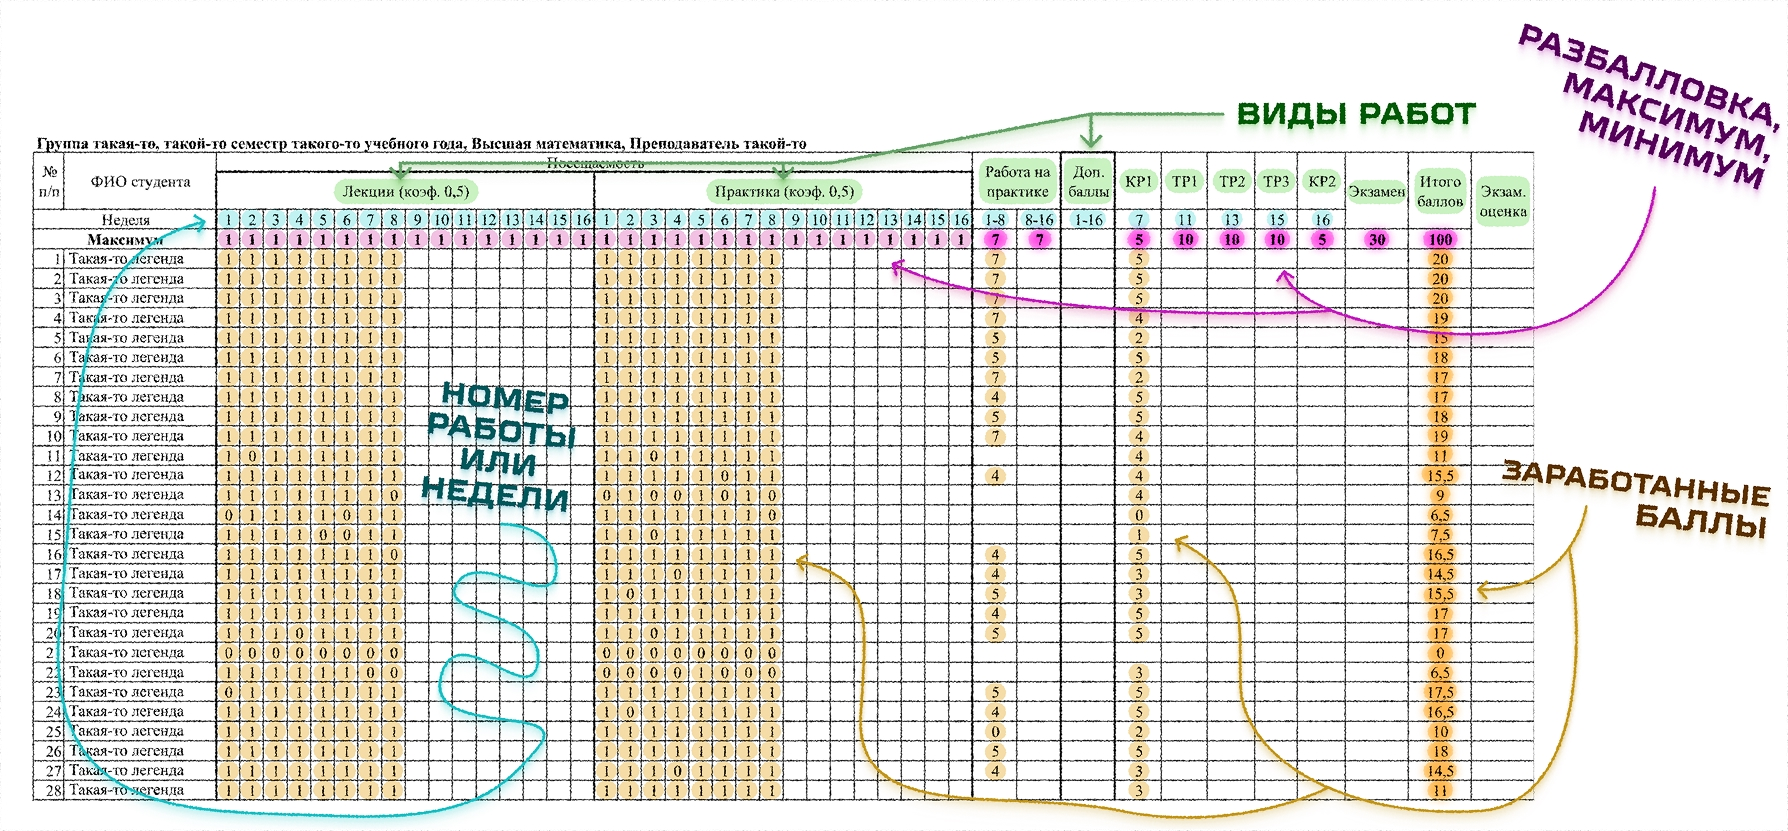
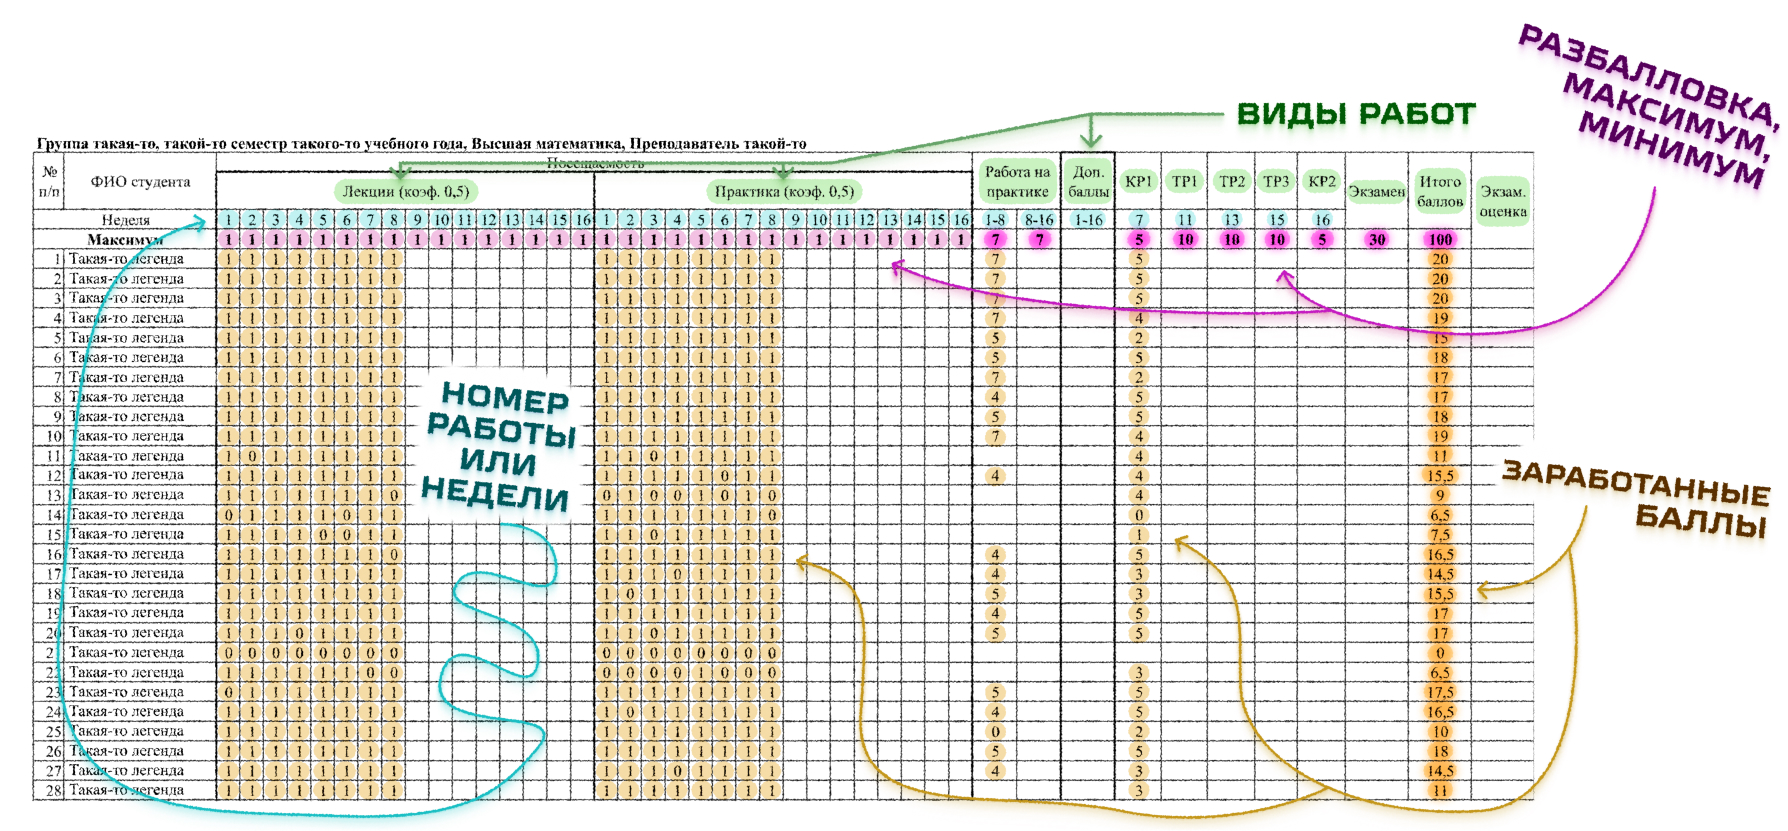
Added more options to FAQ

diff --git a/faq.py b/faq.py
@@ -9,6 +9,9 @@ from keyboards import (
     get_faq_expelled_keyboard,
     get_faq_menu,
     get_faq_survive_keyboard,
+    get_faq_slang_keyboard,
+    get_faq_prog_slang_keyboard,
+    get_faq_friends_keyboard,
 )
 from utils import delete_previous_bot_message, safe_answer
 
@@ -66,7 +69,7 @@ FAQ_TEXTS = {
 <tg-emoji emoji-id='5210956306952758910'>👀</tg-emoji> <i>На скриншоте выше вы можете увидеть, как <b>выглядят списки</b> и <b>как с ними нужно работать</b>...</i>"
 """,
 
-    # Перевод на бюджет
+    # Перевод на другое направление
     "faq_transfer": """<tg-emoji emoji-id='5323772371830588991'>🫡</tg-emoji> <b>Смена направления</b>
 
 <i>Пока не готово, так как нужно поинтересоваться у деканата...</i>
@@ -109,8 +112,55 @@ FAQ_TEXTS = {
 <tg-emoji emoji-id='5422535853471709738'>‼</tg-emoji> <b>Чилл (<i>to chill</i>)</b> — расслабленное состояние, отдых
 <tg-emoji emoji-id='5273804541920299303'>‼</tg-emoji> <b>Жиза (<i>relatable</i>)</b> — жизненная, узнаваемая ситуация
 """,
-    "faq_academic": "Не доделал...",
-    "faq_friends": "Не доделал...",
+    
+    # Программистский сленг
+    "faq_prog_slang": """<tg-emoji emoji-id='5231018528689108942'>🖥</tg-emoji> <b>Сленг для программистов</b>
+
+<tg-emoji emoji-id='5276017910366610357'>‼</tg-emoji> <b>Баг, фиксить, дебажить (<i>bug, fix, debug</i>)</b> — ошибка в программе, исправлять и искать её
+<tg-emoji emoji-id='5276245341769836476'>‼</tg-emoji> <b>Фича (<i>feature</i>)</b> — функция продукта
+<tg-emoji emoji-id='5274194048209398109'>‼</tg-emoji> <b>Таск (<i>task</i>)</b> — задача в трекере
+<tg-emoji emoji-id='5274260822065948801'>‼</tg-emoji> <b>Дедлайн (<i>deadline</i>)</b> — срок сдачи
+<tg-emoji emoji-id='5275985324449736372'>‼</tg-emoji> <b>Релиз, хотфикс (<i>release, hotfix</i>)</b> — выпуск версии, срочное исправление критического бага
+<tg-emoji emoji-id='5274182881294429839'>‼</tg-emoji> <b>Кранч (<i>crunch</i>)</b> — аврал, большой объём работы в сжатые сроки
+<tg-emoji emoji-id='5276104617166383228'>‼</tg-emoji> <b>Техдолг (<i>technical debt</i>)</b> — последствия быстрых временных решений, которые потом усложняют жизнь
+<tg-emoji emoji-id='5274249418927778366'>‼</tg-emoji> <b>Легаси (<i>legacy code</i>)</b> — старый код, который никто не понимает, но все боятся трогать
+<tg-emoji emoji-id='5273831677523666619'>‼</tg-emoji> <b>Коммит, репа, ПР (<i>commit, repo, PR</i>)</b> — зафиксировать изменения, хранилище кода, пулл−реквест на проверку
+<tg-emoji emoji-id='5276225391646746856'>‼</tg-emoji> <b>Деплой, задеплоить (<i>deploy</i>)</b> — выложить новую версию на сервер
+<tg-emoji emoji-id='5276362508477670577'>‼</tg-emoji> <b>Продакшн (<i>prod, production</i>)</b> — рабочая среда, то, что видят реальные пользователи
+<tg-emoji emoji-id='5274095401400543889'>‼</tg-emoji> <b>Бэкап (<i>backup</i>)</b> — резервная копия
+<tg-emoji emoji-id='5275997792739796367'>‼</tg-emoji> <b>Джун, мидл, сеньор (<i>junior, middle, senior</i>)</b> — уровни опыта
+<tg-emoji emoji-id='5275968333559113658'>‼</tg-emoji> <b>Фронт, бэк, фулстек (<i>frontend, backend, fullstack</i>)</b> — видимая часть, серверная часть и универсал
+<tg-emoji emoji-id='5273944557854140615'>‼</tg-emoji> <b>Вайб−кодинг (<i>vibe coding</i>)</b> — быстрое программирование «по вайбу», часто с опорой на нейросети
+<tg-emoji emoji-id='5276516203882359646'>‼</tg-emoji> <b>Кланкер (<i>clanker</i>)</b> — уничижительное название для ИИ, робота или «бездушного» автоматизированного решения
+<tg-emoji emoji-id='5274085806443604103'>‼</tg-emoji> <b>Таскмаскинг (<i>taskmasking</i>)</b> — имитация бурной деятельности: человек выглядит занятым, но реально ничего полезного не делает
+<tg-emoji emoji-id='5276129669710619845'>‼</tg-emoji> <b>Аура−фарминг (<i>aura farming</i>)</b> — создание продуманного «естественно крутого» образа без явной демонстрации усилий
+<tg-emoji emoji-id='5276271425106225527'>‼</tg-emoji> <b>Эйджентик−инжиниринг (<i>agentic engineering</i>)</b> — управление ИИ−агентами, которые сами планируют и выполняют задачи; «взрослая» альтернатива вайб−кодингу
+<tg-emoji emoji-id='5273862751612052806'>‼</tg-emoji> <b>Слоп (<i>slop</i>)</b> — низкокачественный код или контент, сгенерированный ИИ без должной проверки
+<tg-emoji emoji-id='5273923022888119233'>‼</tg-emoji> <b>Галлюцинация (<i>hallucination</i>)</b> — уверенный, но неверный ответ нейросети
+<tg-emoji emoji-id='5276244843553630595'>‼</tg-emoji> <b>Промпт−инжиниринг (<i>prompt engineering</i>)</b> — составление запросов к нейросети так, чтобы получить нужный результат
+""",
+
+    # Академический отпуск
+    "faq_academic": """<tg-emoji emoji-id='5265002646397285605'>🏫</tg-emoji> <b>Академический отпуск</b>
+
+<i>Пока не готово, так как нужно поинтересоваться у деканата...</i>
+""",
+
+    # Как найти друзей
+    "faq_friends": """<tg-emoji emoji-id='5443038326535759644'>💬</tg-emoji> <b>Как найти друзей?</b>
+
+Психология банальна, но работает: людям становится близок тот, с кем они <b>часто пересекаются в одном месте и делают одно дело</b>. Поэтому формула такая: <b>постоянные точки пересечения</b> <tg-emoji emoji-id='5381819718124452001'>➡</tg-emoji> <b>общее дело</b> <tg-emoji emoji-id='5381819718124452001'>➡</tg-emoji> <b>время</b>. Не «стать душой компании за первую неделю», а стабильно появляться там, где те же люди. Отсюда рекомендуем ознакомиться с <i>общими чатами</i> <a href='https://yandex.ru/maps/-/CXWtmR94'>УлГТУ</a> на различные тематики и с прочими <i>социальными сетями</i>, где можно найти знакомства.
+
+<tg-emoji emoji-id='5332724926216428039'>📇</tg-emoji> Базой может служить <b>беседа</b> твоего направления или других направлений, а также <b>каналы</b>, связанные с общественной деятельностью или прочими развлечениями. Ссылки на них можешь найти в разделе «<tg-emoji emoji-id='5447410659077661506'>🌐</tg-emoji> <b>Ресурсы</b>».
+
+<tg-emoji emoji-id='5445044153572411510'>🍬</tg-emoji> Если желаешь более <b>«прямолинейный подход»</b>, вот тебе несколько вариантов:
+<tg-emoji emoji-id='5192761820464589480'>💝</tg-emoji> <b><a href='https://t.me/leomatchbot'>Дайвинчик</a></b> — чат–бот для знакомств
+<tg-emoji emoji-id='5192753492523004571'>💝</tg-emoji> <b><a href='https://t.me/bibinto_bot'>Бибинто</a></b> — чат–бот для оценивания внешности
+<tg-emoji emoji-id='5192867974876278993'>💝</tg-emoji> <b><a href='https://dating.vk.ru'>ВК знакомства</a></b> — сервис для поиска друзей, романтических партнёров или единомышленников внутри экосистемы ВКонтакте
+<tg-emoji emoji-id='5190832375126341100'>💝</tg-emoji> <b><a href='https://www.mamba.ru/ru'>Mamba</a></b> — крупная российская платформа для онлайн–знакомств и общения
+<tg-emoji emoji-id='5190495924568240622'>💝</tg-emoji> <b><a href='https://twinby.ru'>Twinby</a></b> — российское мобильное приложение для онлайн–знакомств
+""",
+
     "faq_study_places": "Не доделал...",
     "faq_smile": "Не доделал...",
     "faq_ask_admin": "Не доделал...",
@@ -139,6 +189,12 @@ async def process_faq_item(callback: types.CallbackQuery):
         reply_markup = get_faq_survive_keyboard()
     elif callback.data == "faq_expelled":
         reply_markup = get_faq_expelled_keyboard()
+    elif callback.data == "faq_slang":
+        reply_markup = get_faq_slang_keyboard()
+    elif callback.data == "faq_prog_slang":
+        reply_markup = get_faq_prog_slang_keyboard()
+    elif callback.data == "faq_friends":
+        reply_markup = get_faq_friends_keyboard()
     else:
         reply_markup = get_faq_back_button()
 

diff --git a/keyboards.py b/keyboards.py
@@ -8,11 +8,13 @@ ICON_BACK = "5451872399953802324"
 ICON_BACK_FAQ = "5436113877181941026"
 ICON_READ = "5445267414562389170"
 
+ICON_RESOURCES = "5447410659077661506"
 ICON_TRANSLATE = "5305720405242159172"
+ICON_PROGRAMMING = "5231018528689108942"
 ICON_TRANSFER = "5323772371830588991"
 ICON_DORM = "5397782960512444700"
 ICON_EXPELLED = "5447544503143504937"
-ICON_QUEEN = "5449698107119904829"
+ICON_QUEEN = "5265002646397285605"
 ICON_SPORT = "5377505475015235101"
 ICON_HELP = "5386535377467094223"
 ICON_BOOK = "5341498088408234504"
@@ -108,7 +110,7 @@ def get_faq_menu():
             types.InlineKeyboardButton(text="Смена направления", callback_data="faq_transfer", icon_custom_emoji_id=ICON_TRANSFER)
         ],
         [
-            types.InlineKeyboardButton(text="Сленг для учебы", callback_data="faq_slang", icon_custom_emoji_id=ICON_TRANSLATE),
+            types.InlineKeyboardButton(text="Сленг для учёбы", callback_data="faq_slang", icon_custom_emoji_id=ICON_TRANSLATE),
             types.InlineKeyboardButton(text="Академ. отпуск", callback_data="faq_academic", icon_custom_emoji_id=ICON_QUEEN)
         ],
         [
@@ -182,6 +184,58 @@ def get_faq_expelled_keyboard():
                 text="Академ. отпуск", 
                 callback_data="faq_academic",
                 icon_custom_emoji_id=ICON_QUEEN
+            )
+        ]
+    ]
+    return types.InlineKeyboardMarkup(inline_keyboard=kb)
+
+def get_faq_slang_keyboard():
+    kb = [
+        [
+            types.InlineKeyboardButton(
+                text="Назад в FAQ", 
+                callback_data="menu_faq",
+                icon_custom_emoji_id=ICON_BACK_FAQ
+            ),
+            types.InlineKeyboardButton(
+                text="Программистский сленг", 
+                callback_data="faq_prog_slang",
+                icon_custom_emoji_id=ICON_PROGRAMMING
+            )
+        ]
+    ]
+    return types.InlineKeyboardMarkup(inline_keyboard=kb)
+
+def get_faq_prog_slang_keyboard():
+    kb = [
+        [
+            types.InlineKeyboardButton(
+                text="Назад в сленг", 
+                callback_data="faq_slang",
+                icon_custom_emoji_id=ICON_TRANSLATE
+            ),
+            types.InlineKeyboardButton(
+                text="Назад в FAQ", 
+                callback_data="menu_faq",
+                icon_custom_emoji_id=ICON_BACK_FAQ
+            )
+            
+        ]
+    ]
+    return types.InlineKeyboardMarkup(inline_keyboard=kb)
+
+def get_faq_friends_keyboard():
+    kb = [
+        [
+            types.InlineKeyboardButton(
+                text="Назад в FAQ", 
+                callback_data="menu_faq",
+                icon_custom_emoji_id=ICON_BACK_FAQ
+            ),
+            types.InlineKeyboardButton(
+                text="Ресурсы", 
+                callback_data="student_resources", 
+                icon_custom_emoji_id=ICON_RESOURCES
             )
         ]
     ]
